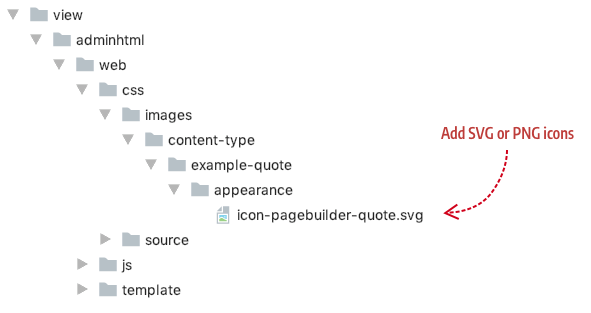
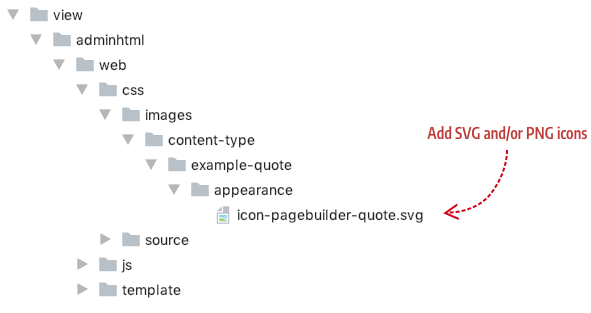
MAGEDOC-3424: Update Iconography topic
Included more examples showing how icons and images are used within forms and on the stage.

Changed region(s): [[0.7005, 0.4026, 1.0, 0.4601]]

diff --git a/docs/configurations/iconography.md b/docs/configurations/iconography.md
@@ -2,22 +2,57 @@
 
 ## Overview
 
-PageBuilder Admin icons follow the same design principles as the core [Magento Admin icons].
-They are simple, flat, and monochromatic to prevent the loss of detail at smaller sizes and makes the shapes easier to comprehend.
+PageBuilder Admin icons follow the same design principles as the core [Magento Admin icons]. They are simple, flat, and monochromatic to prevent the loss of detail at smaller sizes, while making their shapes easier to comprehend.
 
 ## Page Builder icons
 
-The following image shows all available PageBuilder Admin icons with class names to reference them by:
+Here are the available PageBuilder Admin font icons (with class names) for use within your content type as needed:
 
 ![PageBuilder admin icons](../images/pagebuilder-icons.png){:width="870px" height="auto"}
 
-You can use these icons when extending or customizing the PageBuilder module or create your own icons using SVG files or icon fonts as described next.
+Page Builder references these icons by their class names. For example, Page Builder's Heading content type references `icon-pagebuilder-heading` for its panel icon configuration file as shown here:
+
+```xml
+<config xmlns:xsi="http://www.w3.org/2001/XMLSchema-instance" xsi:noNamespaceSchemaLocation="urn:magento:module:Magento_PageBuilder:etc/content_type.xsd">
+    <type name="heading"
+          label="Heading"
+          icon="icon-pagebuilder-heading"
+          ...>
+```
+
+Page Builder's Heading also references three more icons in its toolbar as defined in `Magento/PageBuilder/view/adminhtml/web/js/content-type/heading/preview.js` shown here:
+
+```js
+{
+    key: "text_align",
+    type: "select",
+    values: [{
+				value: "left",
+        label: "Left",
+        icon: "icon-pagebuilder-align-left"
+      }, {
+        value: "center",
+        label: "Center",
+        icon: "icon-pagebuilder-align-center"
+      }, {
+        value: "right",
+        label: "Right",
+        icon: "icon-pagebuilder-align-right"
+      }]
+}];
+```
+
+The icons are render in the Heading's toolbar as shown here:
+
+![Create config file](../images/iconography-toolbar-icons.png)
+
+You can use these icon class names in your own content types or create your own icons using SVG files (recommended) or PNGs as described next.
 
 ## Creating SVG or PNG icons
 
-To add your own icons, we recommend creating SVG icons because they are smaller and render more clearly on high-resolution screens, including mobile devices. 
+To add your own icons, we recommend creating SVG images because they are smaller and render more clearly on high-resolution screens, including mobile devices. 
 
-The size of the icons you create depends on where within Page Builder you want to use them. You can add icons to Page Builder in three areas:
+The size, appearance, and color of your images depends on where within Page Builder you want to use them. You can add icons to Page Builder in three areas:
 
 - Panel
 - Form
@@ -29,29 +64,39 @@ To create a panel icon that integrates seamlessly with the existing panel icons,
 
 ![Create config file](../images/step6-icon-properties.png)
 
-The *artboard* represents the actual width and height of your icon when it is exported from your graphics application (16 x 16px). The *artwork* represents the content of your icon. Following these dimensions ensures your icons will match the size and positioning of the existing Page Builder icons within the panel.
+The *artboard* represents the actual width and height of your icon when it is exported from your graphics application (16 x 16px). The *artwork* represents the content of your icon. Following these dimensions to ensure your icons match the size and positioning of the existing Page Builder font icons within the panel.
 
-### Form and stage icons
+### Form icons
 
-The native Page Builder icons found in forms and on the Admin stage are a variety of sizes, from 20 x 20px up to almost 200px in width, as shown here:
+Most of the images used in the Page Builder base forms are one of three sizes: 20 x 20px, 148 x 60px, and 194 x 98px.
 
 ![Create config file](../images/iconography-form-icons.png)
 
-The best way to decide how big to create your form or stage icons is to inspect the sizes of the Page Builder's existing icons from the browser dev tools. The idea is to emulate the icon sizes as closely as possible to ensure that your icons integrate well and look professional alongside Page Builder's existing icons. 
+Your images should match Page Builder's images in both size and appearance. This ensures a professional, integrated look alongside Page Builder's existing icons. We recommend creating three artboards to match these three sizes. Then give your artwork 1-2 pixels of white space from the artboard's edge, as described for panel icons.
 
-## Adding your icons
+### Stage icons
+
+Stage images can be a variety of sizes. For example, Page Builder's `cms-empty-row.svg` image (shown for an empty row, no doubt) is 468 x 103px with a color of #AAA6A0:
+
+![Create config file](../images/iconography-stage-images.png)
+
+Again, take note of its simple design and subtle color. 
+
+## Adding your images
 
 Add all your SVG and/or PNG icons to the `adminhtml/web/css/images` directory for your content type. For example, if your content type is called `example-quote`, you would put your icons in `adminhtml/web/css/images/content-type/example-quote/appearance/` as follows: 
 
 ![Create config file](../images/iconography-adding-icons.png)
 
-## Create CSS classes for your icons
+## Create CSS classes
 
-For each SVG or PNG icon you create, add a CSS class to your LESS file in `adminhtml` as shown here:
+As discussed earlier in this topic, Page Builder references its icon fonts using class names from a variety of locations, such as the panel, the toolbar, and the visual selectors within forms. Creating your own CSS classes for the SVG and PNG images you plan on referencing by class name is required if you want to participate in Page Builder's system of CSS class references. 
+
+Add the CSS classes for your icons to your LESS file in `adminhtml` (and to the `frontend` LESS file if relevant) as shown here:
 
 ![Create config file](../images/step6-icon-style.png)
 
-Creating a  CSS class for each icon provides an easy way to reference and display your icons in a variety of places throughout Page Builder. The following CSS rule set shows one way to link to your icons through CSS:  
+The following CSS rule set shows one general way to link your icons through CSS:  
 
 ```css
 .icon-pagebuilder-quote {
@@ -61,19 +106,28 @@ Creating a  CSS class for each icon provides an easy way to reference and displa
 }
 ```
 
+If you are creating an icon for the panel, replace the `background-image` attribute with `content` (as described in the content type tutorial, [Step 6: Add an icon](../create-basic-content-type/step-6-add-icon.md)).
+
 | Attribute              | Description                                                  |
 | ---------------------- | ------------------------------------------------------------ |
 | `class name`           | To match the class names of Page Builder's native icons, we recommend prefixing your icon names with `icon-pagebuilder` as we have done with the Quote panel icon. |
-| `background-image url` | The `url` used for the `background-image` is the most critical part of the CSS. Always use the `@{baseDir}` variable followed by your full module name, followed by the path to your image, starting with `css`. When deployed, Page Builder creates a link in the static output where the browser can resolve it as described below. |
+| `background-image url` | The `url` used for the `background-image` is the most critical part of your own CSS classes. Always use the `@{baseDir}` variable followed by your full module name, followed by the path to your image, starting with `css`. When deployed, Page Builder creates a link in the static output where the browser can resolve it as described below. |
 | `width`                | Sets the width of the icon image.                            |
 | `height`               | Sets the height of the icon image.                           |
 
-When deployed, your icon images are linked from `pub/static` as shown here: 
+When deployed, your CSS classes and links to your icons are generated in `pub/static` as shown here: 
 
 ![Create config file](../images/step6-icon-link-static.png)
 
+For more general information about Magento's Admin icons and how to create your own icons for use in Magento, take a look at these topics:
+
+* [Magento Admin icons]
+* [Create your own icons]
+* [The CMS icons repository]
+
+
 
 [Magento Admin icons]: https://devdocs.magento.com/guides/v2.2/pattern-library/graphics/iconography/iconography.html
-[create your own icons]: https://devdocs.magento.com/guides/v2.2/pattern-library/graphics/iconography/iconography.html#creating-icons
-[cms-icons repository]: https://github.com/magento-ux/cms-icons
+[Create your own icons]: https://devdocs.magento.com/guides/v2.2/pattern-library/graphics/iconography/iconography.html#creating-icons
+[The CMS icons repository]: https://github.com/magento-ux/cms-icons
 
